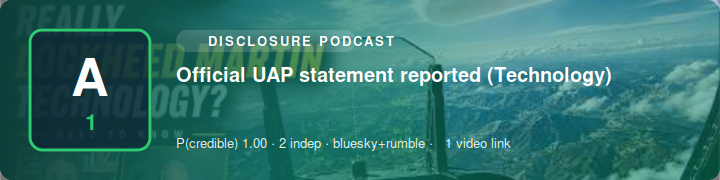
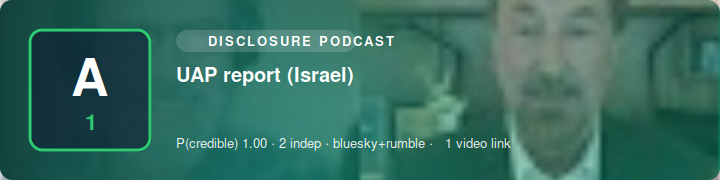
SITREP 2026-08-15 02:00 UTC

diff --git a/index.html b/index.html
@@ -1,1 +1,1 @@
-<!doctype html><meta charset=utf-8><title>Science Bob News — SITREP</title><style>body{font:16px/1.5 system-ui,sans-serif;max-width:760px;margin:2rem auto;padding:0 1rem;color:#111}h1{font-size:1.5rem}h2{margin-top:1.6rem;border-bottom:1px solid #ddd;padding-bottom:.2rem}ul{list-style:none;padding:0}li{margin:.9rem 0}.hl{font-weight:600}.meta{color:#555;font-size:.85rem}.src{font-size:.85rem}.vid{font-size:.85rem;margin-top:.15rem}.card{display:block;max-width:100%;height:auto;border-radius:8px;margin:.4rem 0 .5rem}.upd{background:#fde68a;padding:0 .3rem;border-radius:.2rem;font-size:.75rem}.sub{color:#777;font-size:.85rem}footer{color:#777;font-size:.8rem;margin-top:2rem;border-top:1px solid #ddd;padding-top:.6rem}</style><h1>🛸 Science Bob News</h1><div class="sub">UAP / UFO / USO SITREP · updated 2026-08-15 01:50 UTC · automated</div><h2>Corroborated</h2><ul><li><i>No corroborated reports.</i></li></ul><h2>Developing / unconfirmed</h2><ul><li><i>None.</i></li></ul><footer><b>Powered by Science Bob News.</b> Free to use with credit (see LICENSE). Headlines are factual restatements in the engine's own words; click sources for originals. Single-origin reposts collapse to one source; prosaic candidates flagged where offered.</footer>
+<!doctype html><meta charset=utf-8><title>Science Bob News — SITREP</title><style>body{font:16px/1.5 system-ui,sans-serif;max-width:760px;margin:2rem auto;padding:0 1rem;color:#111}h1{font-size:1.5rem}h2{margin-top:1.6rem;border-bottom:1px solid #ddd;padding-bottom:.2rem}ul{list-style:none;padding:0}li{margin:.9rem 0}.hl{font-weight:600}.meta{color:#555;font-size:.85rem}.src{font-size:.85rem}.vid{font-size:.85rem;margin-top:.15rem}.card{display:block;max-width:100%;height:auto;border-radius:8px;margin:.4rem 0 .5rem}.upd{background:#fde68a;padding:0 .3rem;border-radius:.2rem;font-size:.75rem}.sub{color:#777;font-size:.85rem}footer{color:#777;font-size:.8rem;margin-top:2rem;border-top:1px solid #ddd;padding-top:.6rem}</style><h1>🛸 Science Bob News</h1><div class="sub">UAP / UFO / USO SITREP · updated 2026-08-15 02:00 UTC · automated</div><h2>Corroborated</h2><ul><li><img class="card" src="https://n4hy.github.io/sciencebobnews-site/card_c_1.svg" alt="" width="720" height="180"><div class="hl">UAP report (Israel)</div><div class="meta">reliability <b>A1</b> · P(credible)=1.0 · 2 independent source(s) · bluesky+rumble</div><div class="src"><a href="https://www.youtube.com/watch?v=IzRjCEcotTw">@podcast</a> · <a href="https://bsky.app/profile/did:plc:fgwuipl2ygjoy2ptdli7fwgs/post/3mt2kz6ijzk22">@did:plc:fgwuipl2ygjoy2ptdli7fwgs</a></div><div class="vid">📹 <a href="https://www.youtube.com/watch?v=IzRjCEcotTw">video</a></div></li></ul><h2>Developing / unconfirmed</h2><ul><li><img class="card" src="https://n4hy.github.io/sciencebobnews-site/card_d_1.svg" alt="" width="720" height="180"><div class="hl">UAP report (Early)</div><div class="meta">reliability <b>A1</b> · P(credible)=1.0 · 1 independent source(s) · rumble</div><div class="src"><a href="https://www.youtube.com/watch?v=IyTeV6kko5A">@podcast</a></div><div class="vid">📹 <a href="https://www.youtube.com/watch?v=IyTeV6kko5A">video</a></div></li><li><img class="card" src="https://n4hy.github.io/sciencebobnews-site/card_d_2.svg" alt="" width="720" height="180"><div class="hl">UAP report (McMinnville)</div><div class="meta">reliability <b>A1</b> · P(credible)=1.0 · 1 independent source(s) · rumble</div><div class="src"><a href="https://www.youtube.com/watch?v=7OT6uJ0yzVY">@podcast</a></div><div class="vid">📹 <a href="https://www.youtube.com/watch?v=7OT6uJ0yzVY">video</a></div></li><li><img class="card" src="https://n4hy.github.io/sciencebobnews-site/card_d_3.svg" alt="" width="720" height="180"><div class="hl">UAP report (Australia)</div><div class="meta">reliability <b>A1</b> · P(credible)=1.0 · 1 independent source(s) · rumble</div><div class="src"><a href="https://www.youtube.com/watch?v=ZegQhxJrJGo">@podcast</a></div><div class="vid">📹 <a href="https://www.youtube.com/watch?v=ZegQhxJrJGo">video</a></div></li><li><img class="card" src="https://n4hy.github.io/sciencebobnews-site/card_d_4.svg" alt="" width="720" height="180"><div class="hl">Official UAP statement reported (International)</div><div class="meta">reliability <b>A1</b> · P(credible)=1.0 · 1 independent source(s) · rumble</div><div class="src"><a href="https://www.youtube.com/watch?v=DD4iB7rkmew">@podcast</a></div><div class="vid">📹 <a href="https://www.youtube.com/watch?v=DD4iB7rkmew">video</a></div></li><li><img class="card" src="https://n4hy.github.io/sciencebobnews-site/card_d_5.svg" alt="" width="720" height="180"><div class="hl">Official UAP statement reported (Psychology)</div><div class="meta">reliability <b>A1</b> · P(credible)=1.0 · 1 independent source(s) · rumble</div><div class="src"><a href="https://www.youtube.com/watch?v=mne_PUxB5T8">@podcast</a></div><div class="vid">📹 <a href="https://www.youtube.com/watch?v=mne_PUxB5T8">video</a></div></li></ul><footer><b>Powered by Science Bob News.</b> Free to use with credit (see LICENSE). Headlines are factual restatements in the engine's own words; click sources for originals. Single-origin reposts collapse to one source; prosaic candidates flagged where offered.</footer>

diff --git a/sitrep.md b/sitrep.md
@@ -1,11 +1,40 @@
 # 🛸 Science Bob News — UAP / UFO / USO SITREP
-*Updated 2026-08-15 01:50 UTC · auto-generated · sources credited & linked · reliability ratings are automated, not editorial*
+*Updated 2026-08-15 02:00 UTC · auto-generated · sources credited & linked · reliability ratings are automated, not editorial*
 
 ## Corroborated
-_No corroborated reports this cycle._
+
+![UAP report (Israel)](https://n4hy.github.io/sciencebobnews-site/card_c_1.svg)
+1. **UAP report (Israel)**  
+   reliability **A1** · P(credible)=1.0 · 2 independent source(s) · bluesky+rumble  
+   [@podcast](https://www.youtube.com/watch?v=IzRjCEcotTw) · [@did:plc:fgwuipl2ygjoy2ptdli7fwgs](https://bsky.app/profile/did:plc:fgwuipl2ygjoy2ptdli7fwgs/post/3mt2kz6ijzk22)  
+   📹 [video](https://www.youtube.com/watch?v=IzRjCEcotTw)
 
 ## Developing / unconfirmed
-_None._
+
+![UAP report (Early)](https://n4hy.github.io/sciencebobnews-site/card_d_1.svg)
+1. UAP report (Early) — reliability A1 · 1 source(s)  
+   [@podcast](https://www.youtube.com/watch?v=IyTeV6kko5A)  
+   📹 [video](https://www.youtube.com/watch?v=IyTeV6kko5A)
+
+![UAP report (McMinnville)](https://n4hy.github.io/sciencebobnews-site/card_d_2.svg)
+2. UAP report (McMinnville) — reliability A1 · 1 source(s)  
+   [@podcast](https://www.youtube.com/watch?v=7OT6uJ0yzVY)  
+   📹 [video](https://www.youtube.com/watch?v=7OT6uJ0yzVY)
+
+![UAP report (Australia)](https://n4hy.github.io/sciencebobnews-site/card_d_3.svg)
+3. UAP report (Australia) — reliability A1 · 1 source(s)  
+   [@podcast](https://www.youtube.com/watch?v=ZegQhxJrJGo)  
+   📹 [video](https://www.youtube.com/watch?v=ZegQhxJrJGo)
+
+![Official UAP statement reported (International)](https://n4hy.github.io/sciencebobnews-site/card_d_4.svg)
+4. Official UAP statement reported (International) — reliability A1 · 1 source(s)  
+   [@podcast](https://www.youtube.com/watch?v=DD4iB7rkmew)  
+   📹 [video](https://www.youtube.com/watch?v=DD4iB7rkmew)
+
+![Official UAP statement reported (Psychology)](https://n4hy.github.io/sciencebobnews-site/card_d_5.svg)
+5. Official UAP statement reported (Psychology) — reliability A1 · 1 source(s)  
+   [@podcast](https://www.youtube.com/watch?v=mne_PUxB5T8)  
+   📹 [video](https://www.youtube.com/watch?v=mne_PUxB5T8)
 
 ---
 *Powered by Science Bob News. Free to use with credit (see LICENSE). Headlines are factual restatements in the engine's own words — click through to the linked sources for originals. Reposts of a single origin are collapsed to one source; candidate prosaic explanations are flagged where offered.*
